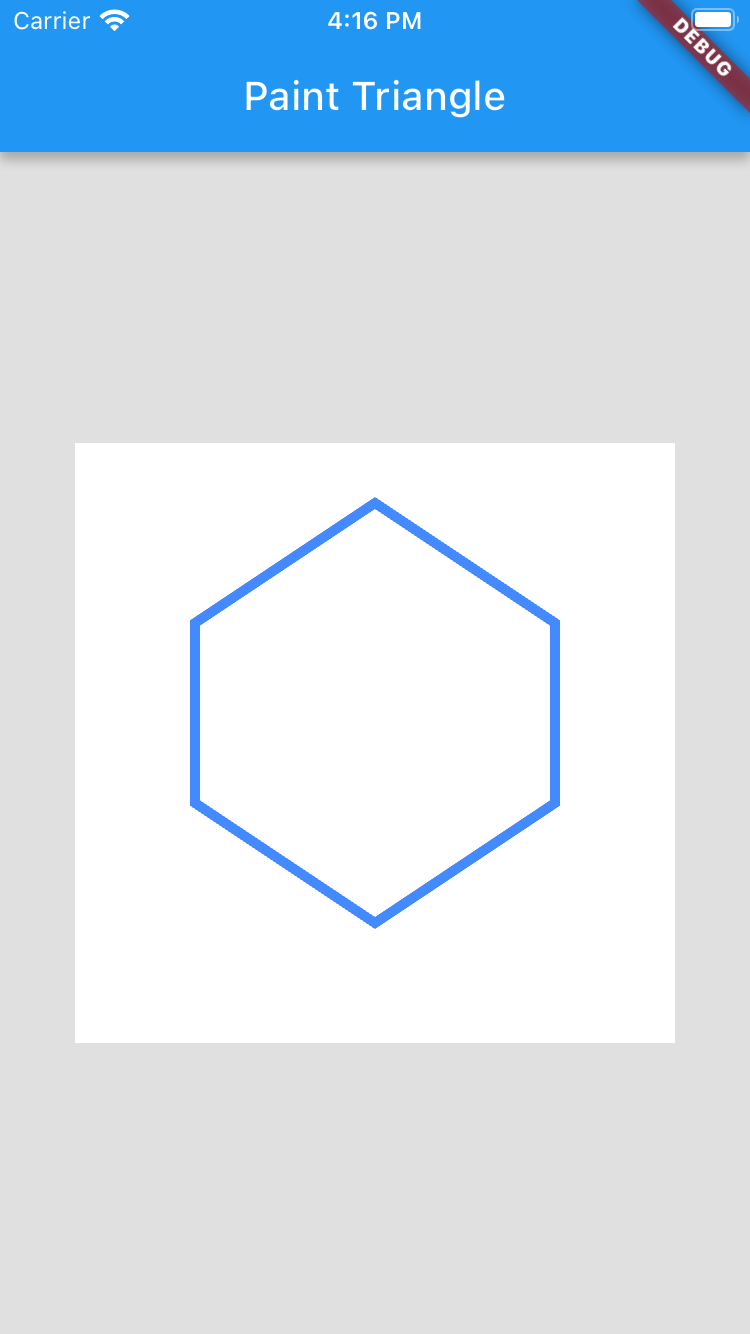
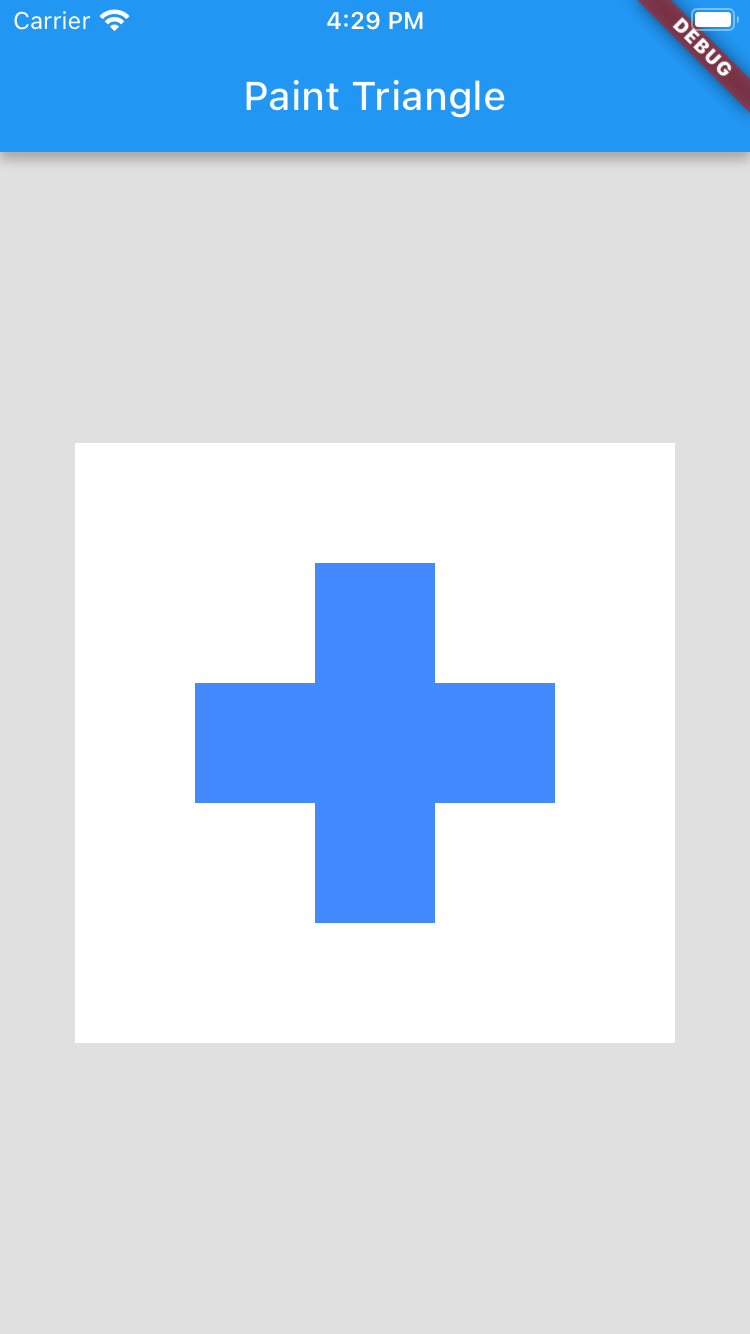
plus

Changed region(s): [[0.2453, 0.3688, 0.7667, 0.7069], [0.4293, 0.0, 0.5827, 0.0307]]

diff --git a/lib/main.dart b/lib/main.dart
@@ -42,17 +42,24 @@ class MyCustomPainter extends CustomPainter{
   @override
   void paint(Canvas canvas, Size size) {
     // CREATING THE BRUSH
-    Paint brush=Paint()..strokeWidth=5..color=Colors.blueAccent..style = PaintingStyle.fill;
+    Paint brush=Paint()..strokeWidth=5..color=Colors.blueAccent..style = PaintingStyle.stroke;
 
     // CREATING THE PATH
     final shape=Path();
 
-    shape.moveTo(size.width/2,size.height*0.1);
-    shape.relativeLineTo(size.width*0.3,size.height*0.2);
-    shape.relativeLineTo(0, size.height*0.3);
-    shape.relativeLineTo(-size.width*0.3,size.height*0.2);
-    shape.relativeLineTo(-size.width*0.3,-size.height*0.2);
-    shape.relativeLineTo(0,-size.height*0.3);
+    shape.moveTo(size.width*0.4, size.height*0.2);
+    shape.relativeLineTo(size.width*0.2, 0);
+    shape.relativeLineTo(0, size.height*0.2);
+    shape.relativeLineTo(size.width*0.2, 0);
+    shape.relativeLineTo(0, size.height*0.2);
+    shape.relativeLineTo(-size.width*0.2, 0);
+    shape.relativeLineTo(0, size.height*0.2);
+    shape.relativeLineTo(-size.width*0.2, 0);
+    shape.relativeLineTo(0, -size.height*0.2);
+    shape.relativeLineTo(-size.width*0.2, 0);
+    shape.relativeLineTo(0, -size.height*0.2);
+    shape.relativeLineTo(size.width*0.2, 0);
+
 
      shape.close();
 
